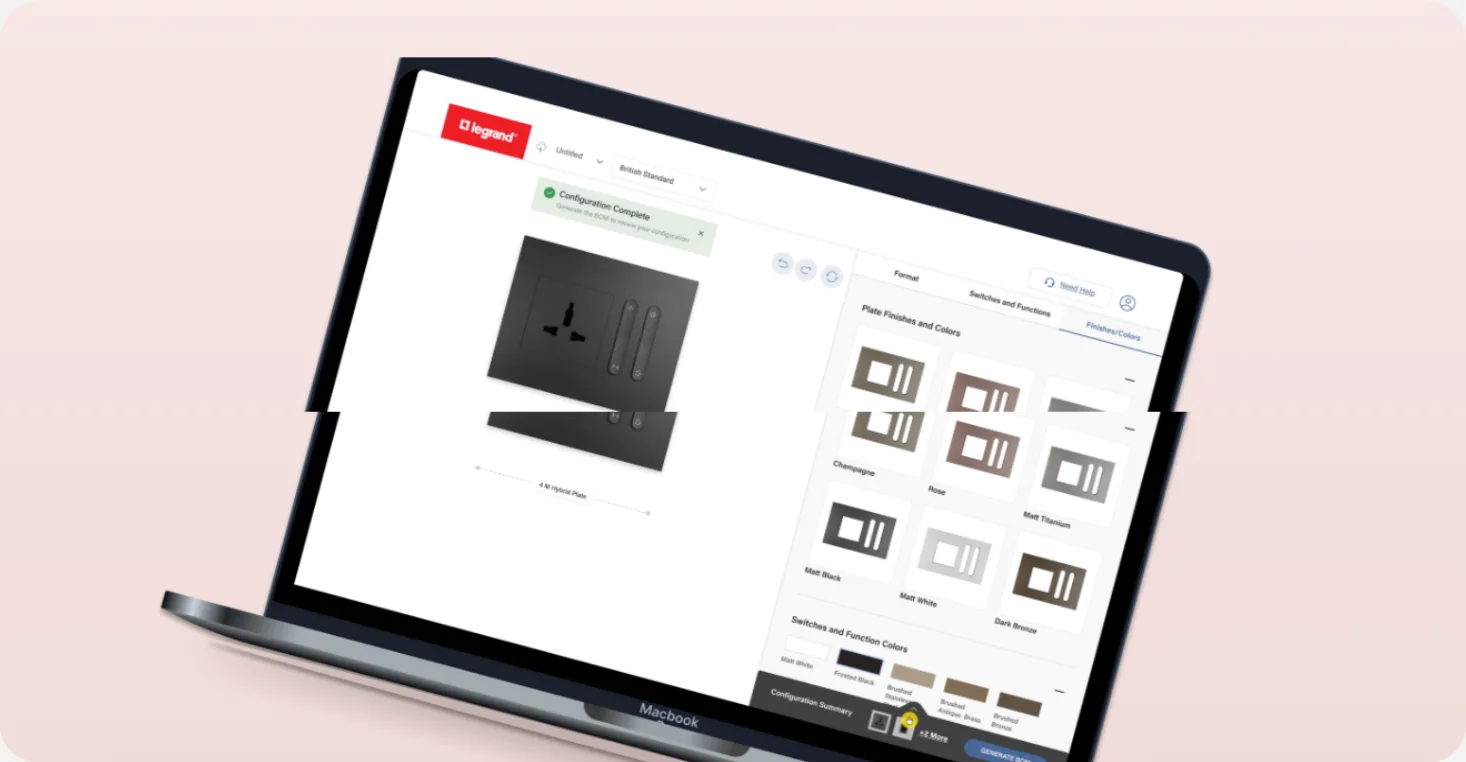
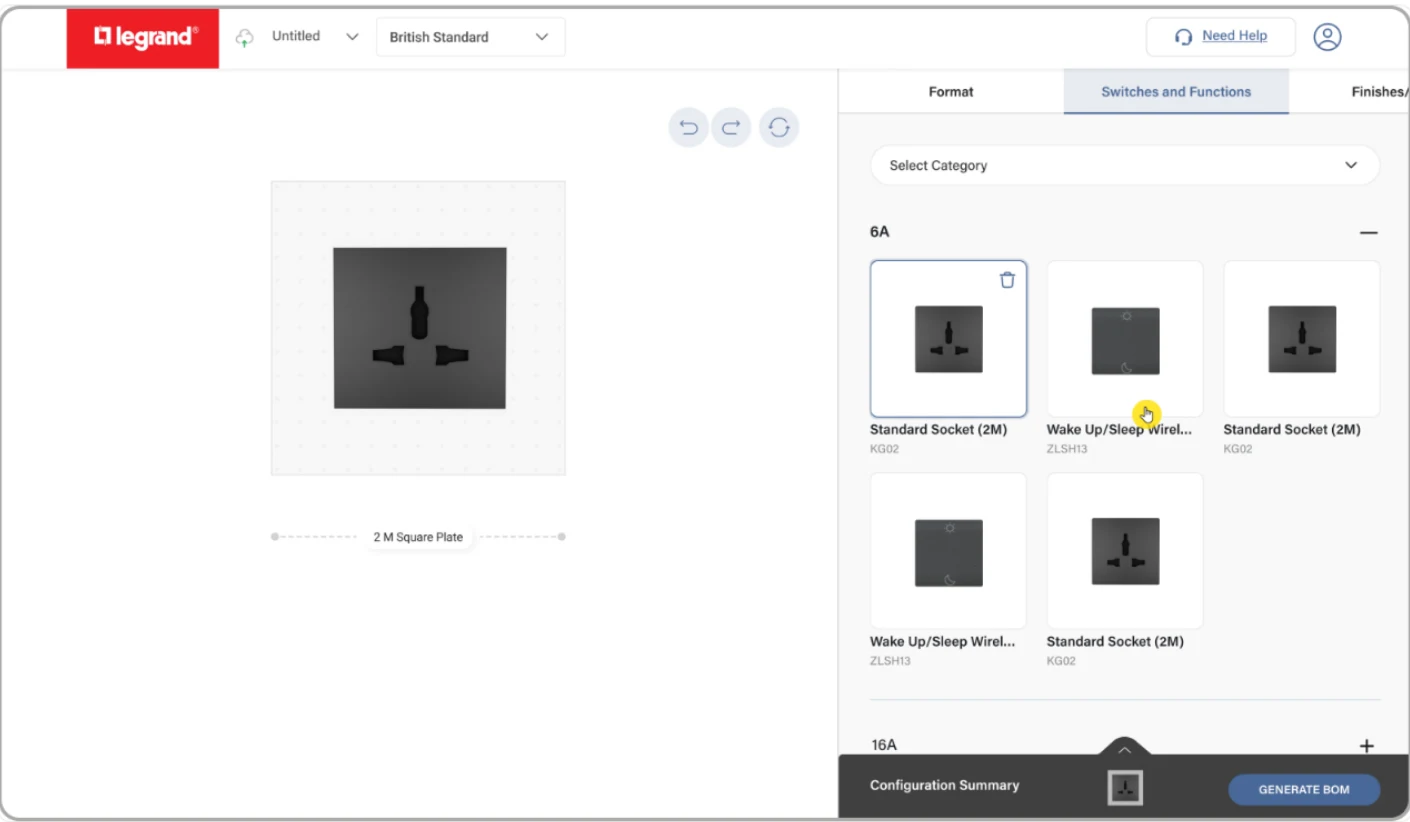
Legrand preview: clean configurator screenshot instead of the sliced hero
The laptop hero from the PDF export had a shifted strip across the screen
and was clipped at the panel edge. Use a clean configurator screenshot,
shown whole as a floating frame on the pink panel.

Claude-Session: https://claude.ai/code/session_01P5je1RnDYGL4MWCwZYsfw7

diff --git a/assets/css/styles.css b/assets/css/styles.css
@@ -309,6 +309,8 @@ main > #contact{margin-bottom:56px}
 .fw-shot.on .shot-img{transform:none}
 .fw-shot:hover .shot-img{transform:scale(1.02)}
 #fwShot1 .meta{color:rgba(255,236,238,.75)}
+#fwShot0{background:radial-gradient(120% 90% at 30% 20%, #FBEDEC, #F1DCDA)}
+.shot-img.framed{object-fit:contain; padding:13% 6% 7%; filter:drop-shadow(0 22px 28px rgba(90,40,30,.22)) drop-shadow(0 2px 3px rgba(90,40,30,.12))}
 .soon-card{position:absolute; z-index:1; left:50%; top:52%; transform:translate(-50%,-50%) rotate(-2deg); width:min(320px,60%); padding:22px 24px; background:#FFFDF8; border-radius:14px; box-shadow:0 24px 50px -16px rgba(30,25,20,.35); display:grid; gap:8px}
 .soon-card b{font:700 54px/1 var(--display); letter-spacing:-.04em; color:var(--c)}
 .soon-card span{font:700 22px var(--hand); color:var(--muted)}

diff --git a/index.html b/index.html
@@ -287,7 +287,7 @@
         </ol>
         <div class="fw-stage">
           <button class="fw-shot on" type="button" id="fwShot0" role="tabpanel" aria-labelledby="fwTab0" data-open-case="legrand" style="--c:#D9332B" tabindex="-1">
-            <img class="shot-img" src="assets/work/legrand.webp" alt="" loading="lazy" style="object-fit:contain; background:linear-gradient(#F8E7E8,#F1DDDB)">
+            <img class="shot-img framed" src="assets/work/legrand.webp" alt="The Arteor switch configurator with a 2-module square plate" loading="lazy">
             <span class="meta"><span>2025</span><span>Case study</span></span>
           </button>
           <button class="fw-shot" type="button" id="fwShot1" role="tabpanel" aria-labelledby="fwTab1" data-open-case="oman" style="--c:#E0566B" tabindex="-1">
